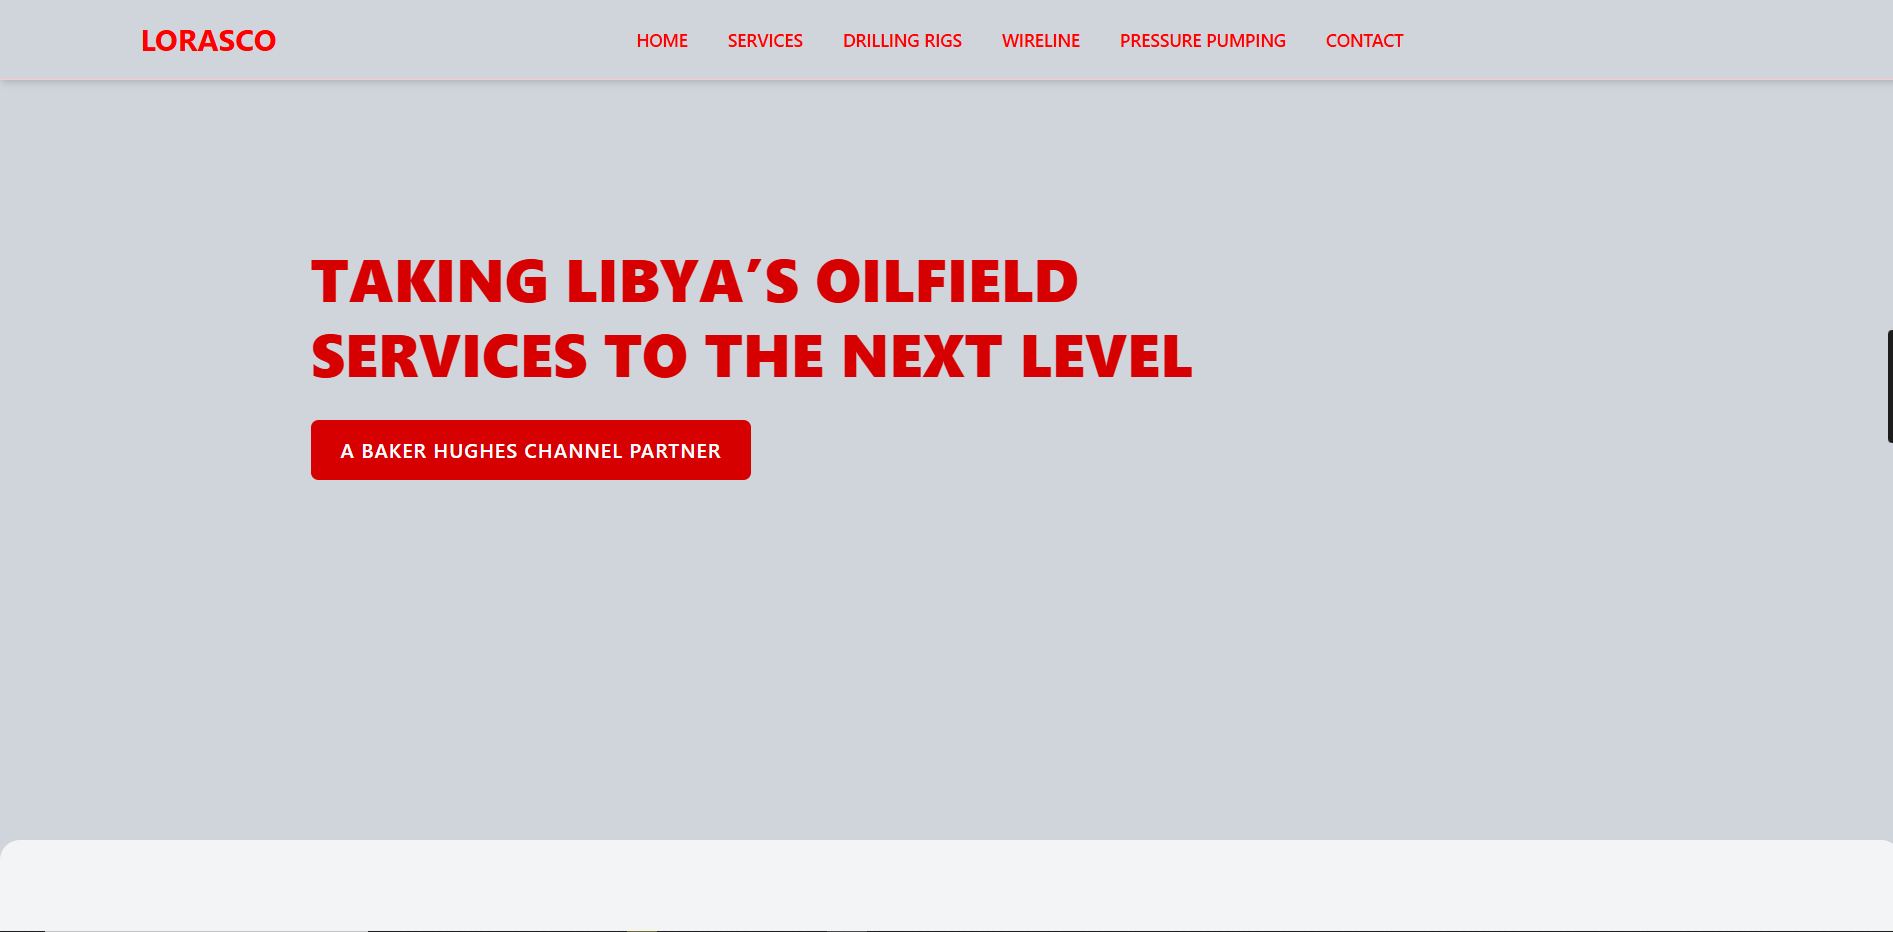
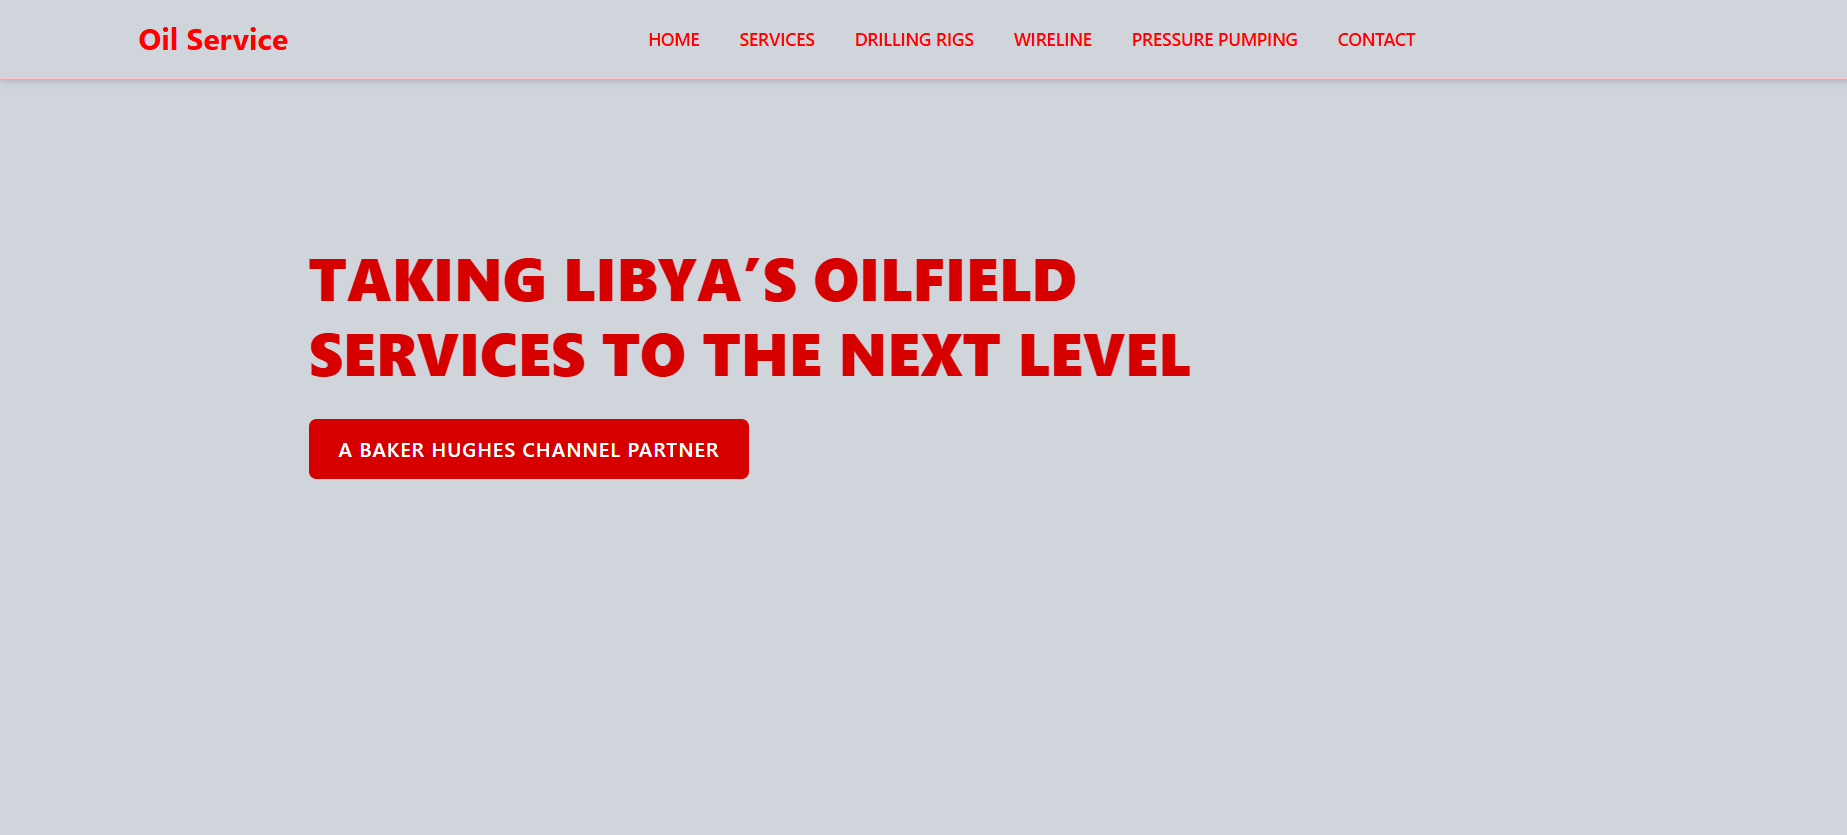
writing some notes

diff --git a/src/contents/projects.ts b/src/contents/projects.ts
@@ -3,7 +3,7 @@ import {Project} from "@/types";
 
 export const projects: Project[] = [
     {
-        title: 'ABC Oil Service',
+        title: 'Oil Service',
         description: 'A full-stack oil company platform built with Laravel, php and Tailwind CSS.',
         technologies: ['Laravel', 'PHP', 'Tailwind CSS'],
         githubLink: 'https://github.com',
